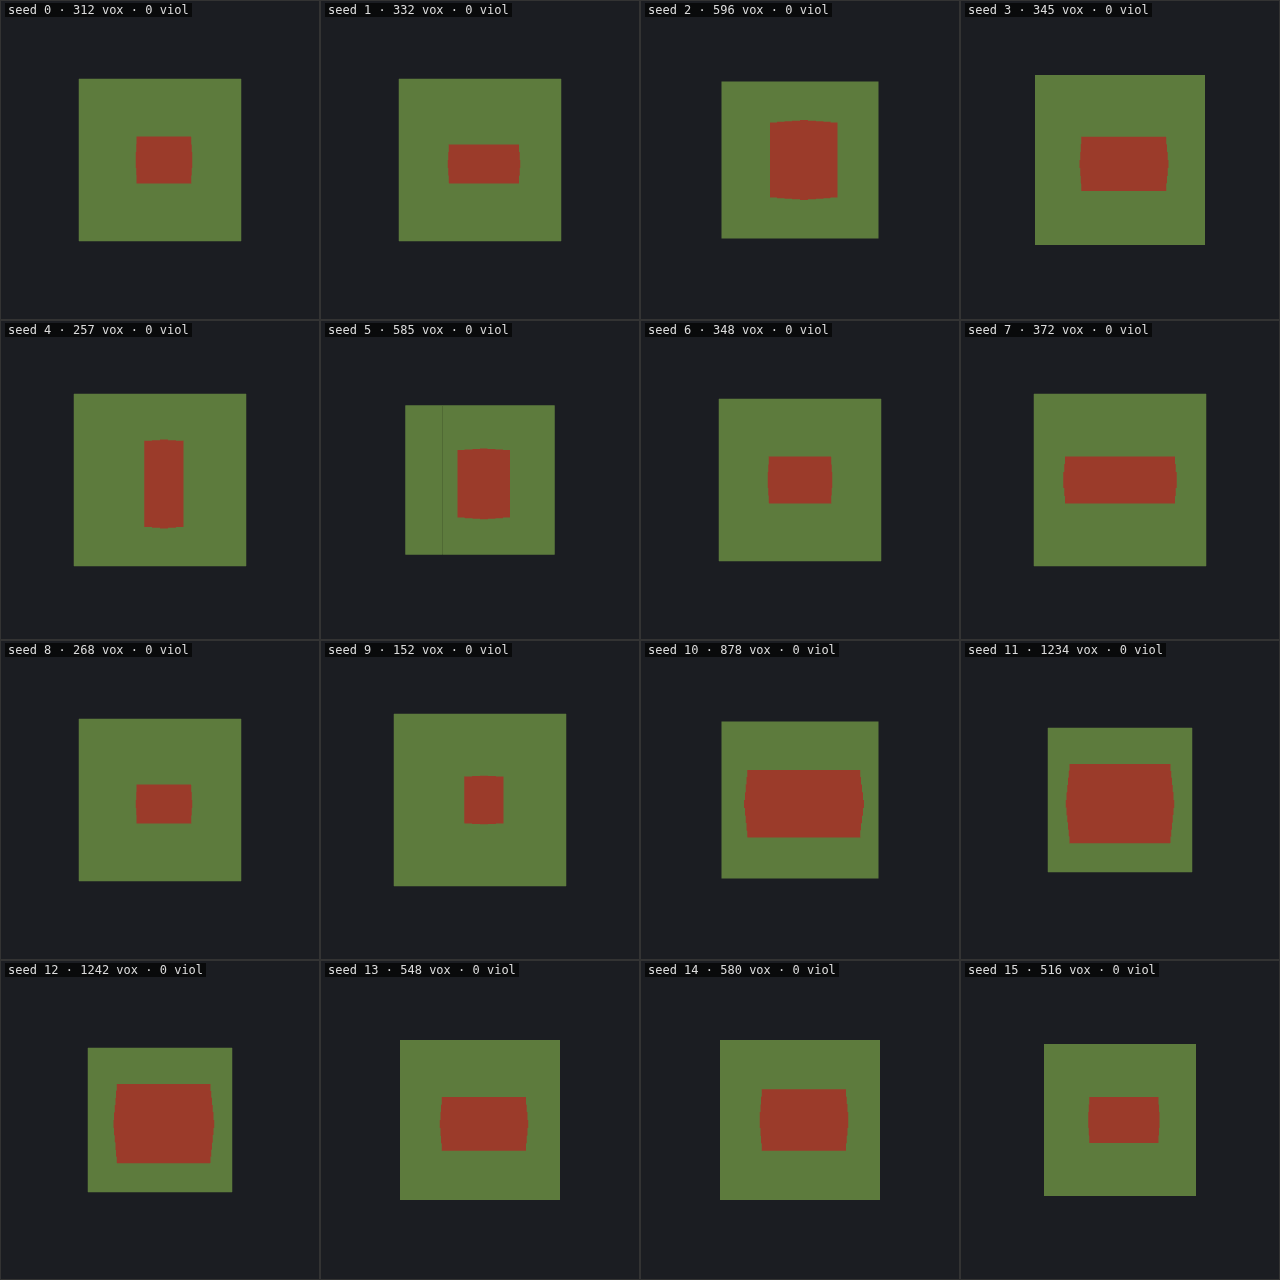
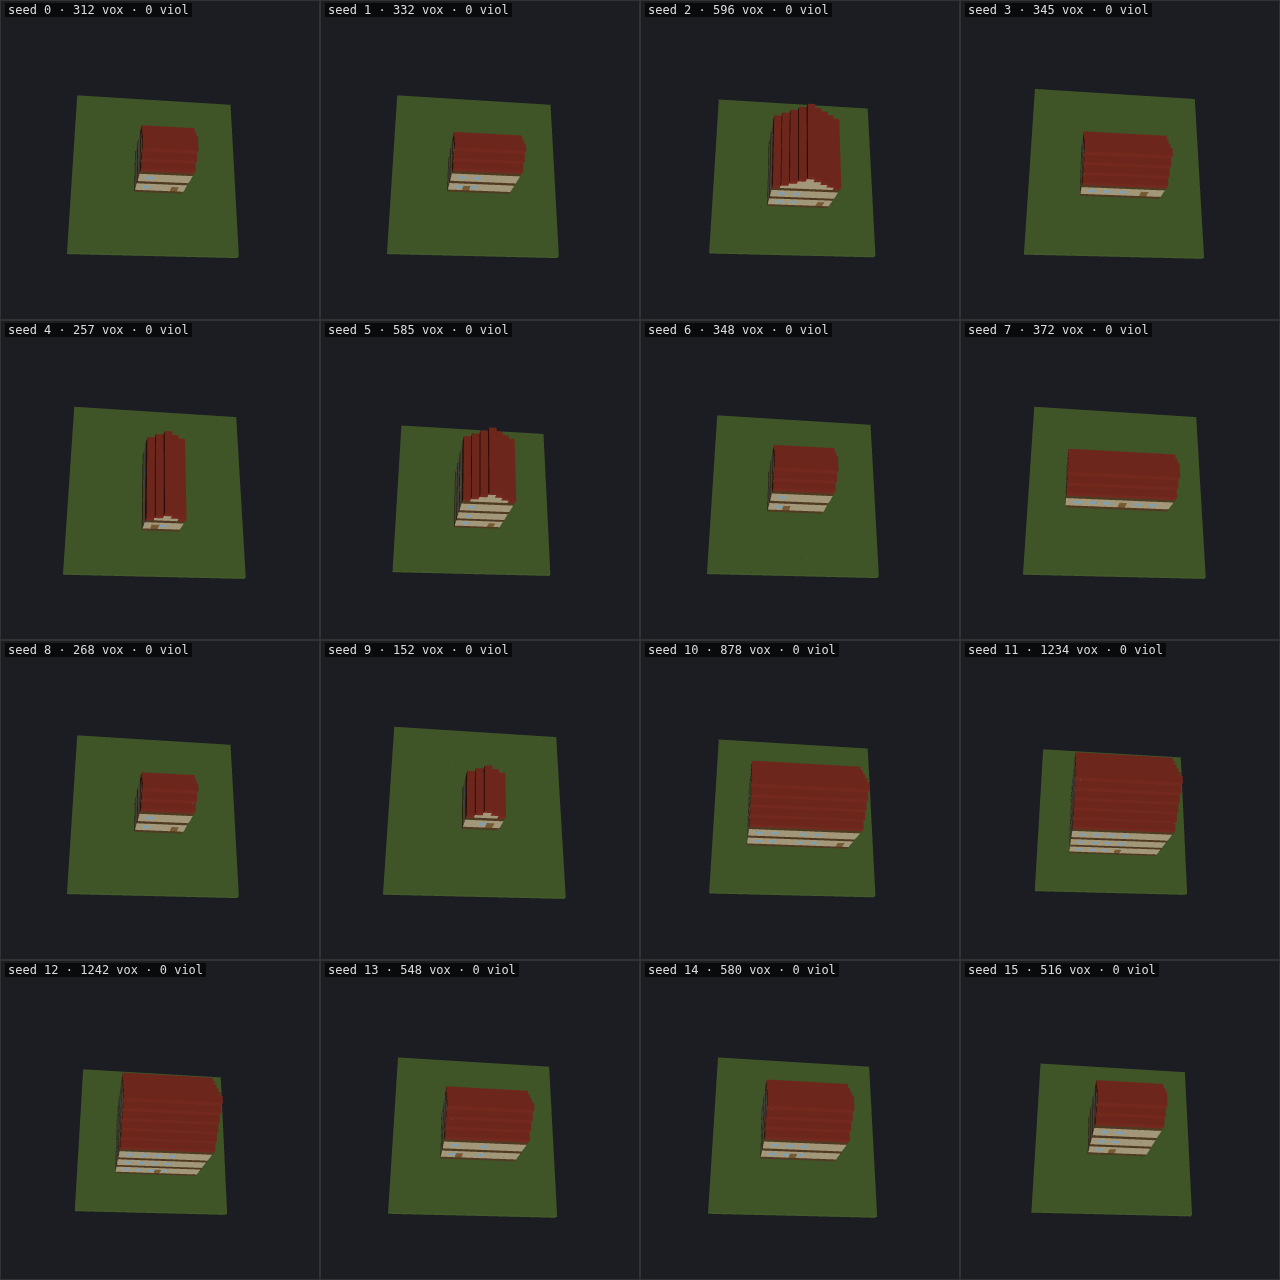
TV: tilt gallery top preset 22 deg and shade it so roofs read
- viewer/presets.ts: top preset tipped 22 deg off vertical towards front/viewer-left, same distance, front edge at picture bottom
- viewer/gallery.ts: top cells use a fixed low sun from front-right, hemisphere 0.5; other presets unchanged
- presets.test.ts asserts exact pitch, tilt direction and up vector
- 4 top PNGs regenerated (others byte-identical); front wall, windows, door, gable ends now visible, nothing cut off

Known issues: roof slopes still one colour (stair voxels share an up-face; needs per-face normals in render.ts)
Review: none
Verified: viewer npm test -> 40 pass; npm run build ok. Follow-up rounds: 0.
Squashed from claude/p3-top-view (4e5fb28..e565930).

diff --git a/viewer/src/presets.ts b/viewer/src/presets.ts
@@ -7,6 +7,9 @@ export type PresetName = (typeof PRESET_NAMES)[number];
 /** Fixed for every cell, so the same seed always frames the same. */
 export const FOV_DEG = 35;
 const DISTANCE_FACTOR = 1.15;
+/** The top preset's angle off vertical, so roof slopes and gable ends read instead of a flat rectangle. */
+export const TOP_PITCH_DEG = 22;
+const TOP_PITCH = (TOP_PITCH_DEG * Math.PI) / 180;
 
 /** Horizontal unit vector pointing out of the front of a lot (north is -z, east is +x, as in the IR). */
 export function frontVector(front: Facing): [number, number] {
@@ -22,8 +25,8 @@ export interface CameraPose { position: THREE.Vector3; target: THREE.Vector3; up
 
 /**
  * Camera pose for a preset, relative to the world bounds [min, max) of a building and the facing of its lot.
- * front-left: 3/4 view from the front-left corner, 30 degrees down; back-right: the opposite corner; top: straight
- * down with the front at the bottom of the picture; front: level elevation from the front.
+ * front-left: 3/4 view from the front-left corner, 30 degrees down; back-right: the opposite corner; top: 22 degrees off
+ * straight down (tipped towards the front, slightly to the left) with the front at the bottom of the picture; front: level elevation from the front.
  */
 export function presetPose(
   name: PresetName, bounds: { min: number[]; max: number[] }, front: Facing,
@@ -44,7 +47,11 @@ export function presetPose(
     case 'front-left': dir.copy(flat(1, 1)).multiplyScalar(Math.cos(tilt)).setY(Math.sin(tilt)); break;
     case 'back-right': dir.copy(flat(-1, -1)).multiplyScalar(Math.cos(tilt)).setY(Math.sin(tilt)); break;
     case 'front': dir.copy(flat(1, 0)); break;
-    case 'top': dir.set(0, 1, 0); up.set(-fx, 0, -fz); break; // front edge at the bottom of the picture
+    case 'top': { // front edge at the bottom of the picture, tipped off vertical towards the front and a little to the left
+      dir.copy(flat(1, 0.35)).multiplyScalar(Math.sin(TOP_PITCH)).setY(Math.cos(TOP_PITCH));
+      up.set(-fx, 0, -fz);
+      break;
+    }
   }
   return { position: target.clone().add(dir.multiplyScalar(dist)), target, up };
 }

diff --git a/viewer/src/gallery.ts b/viewer/src/gallery.ts
@@ -1,6 +1,6 @@
 import * as THREE from 'three';
 import { buildSceneObject } from './render';
-import { FOV_DEG, PRESET_NAMES, presetPose } from './presets';
+import { FOV_DEG, PRESET_NAMES, frontVector, presetPose } from './presets';
 import type { PresetName } from './presets';
 import { resolveSource } from './source';
 import { sceneBounds, sceneVoxels } from './voxels';
@@ -40,7 +40,8 @@ async function main(): Promise<void> {
   if (seeds.length === 0) throw new Error(`no seeds >= ${from}`);
 
   const scene = new THREE.Scene();
-  scene.add(new THREE.HemisphereLight(0xffffff, 0x444455, 1.2));
+  const hemi = new THREE.HemisphereLight(0xffffff, 0x444455, 1.2);
+  scene.add(hemi);
   const sun = new THREE.DirectionalLight(0xffffff, 2);
   sun.position.set(5, 10, 7);
   scene.add(sun, sun.target);
@@ -60,7 +61,15 @@ async function main(): Promise<void> {
     camera.lookAt(pose.target);
     camera.updateProjectionMatrix();
     // Headlight-ish: the sun follows the camera (a bit above it) so every preset and facing is lit alike.
-    sun.position.copy(pose.position).add(new THREE.Vector3(0, pose.position.distanceTo(pose.target) * 0.6, 0));
+    const dist = pose.position.distanceTo(pose.target);
+    sun.position.copy(pose.position).add(new THREE.Vector3(0, dist * 0.6, 0));
+    if (preset === 'top') {
+      // From above a headlight makes every upward face identical. Use a fixed low sun from the front-right
+      // (relative to the lot's front) so roof slopes, ridges and gable ends take different shades.
+      const [fx, fz] = frontVector(data.lots[0]?.front ?? 'south');
+      sun.position.copy(pose.target).add(new THREE.Vector3(0.8 * fx + 0.6 * fz, 0.55, 0.8 * fz - 0.6 * fx).multiplyScalar(dist));
+      hemi.intensity = 0.5;
+    } else hemi.intensity = 1.2;
     sun.target.position.copy(pose.target);
     sun.target.updateMatrixWorld();
     const col = i % COLS, row = Math.floor(i / COLS);

diff --git a/viewer/src/presets.test.ts b/viewer/src/presets.test.ts
@@ -1,5 +1,5 @@
 import { describe, expect, it } from 'vitest';
-import { PRESET_NAMES, presetPose } from './presets';
+import { PRESET_NAMES, TOP_PITCH_DEG, presetPose } from './presets';
 
 const b = { min: [10, 60, 20], max: [30, 70, 40] };
 
@@ -22,9 +22,13 @@ describe('camera presets', () => {
     const bl = presetPose('front-left', b, 'north'), br = presetPose('back-right', b, 'north');
     expect(bl.position.x + br.position.x).toBeCloseTo(2 * bl.target.x, 6);
   });
-  it('top looks straight down', () => {
-    const p = presetPose('top', b, 'west');
-    expect(p.position.x).toBeCloseTo(p.target.x); expect(p.position.z).toBeCloseTo(p.target.z);
-    expect(p.position.y).toBeGreaterThan(p.target.y);
+  it('top looks down at a slight angle off vertical, tipped towards the front and the viewer-left', () => {
+    const p = presetPose('top', b, 'south');
+    const d = p.position.clone().sub(p.target);
+    expect(d.y).toBeGreaterThan(0);
+    expect(Math.acos(d.y / d.length()) * 180 / Math.PI).toBeCloseTo(TOP_PITCH_DEG, 6);
+    expect(p.position.z).toBeGreaterThan(p.target.z); // front (south) side
+    expect(p.position.x).toBeLessThan(p.target.x); // viewer-left
+    expect(p.up.x + 0).toBeCloseTo(0); expect(p.up.z).toBeCloseTo(-1); // front edge stays at the bottom of the picture
   });
 });

diff --git a/docs/log/2026-10-18-p3-top-view.md b/docs/log/2026-10-18-p3-top-view.md
@@ -1,0 +1,10 @@
+# 3.8 gate follow-up: tilted top view
+
+John (REVIEW 3.12, answers 2 and 4): top view too dead on, flat shaded.
+
+- `viewer/src/presets.ts`: `top` pitch is `TOP_PITCH_DEG = 22` off vertical, towards the front and 0.35 of the way to the viewer-left; `up` still puts the front edge at the picture bottom; same distance, so whole building stays in frame (checked on all 16 cells x 4 galleries' top views).
+- `viewer/src/gallery.ts`: for `top` only, the sun is fixed at 0.55 elevation from the front-right of the lot's front (not the camera) and the hemisphere light drops to 0.5; other presets keep the headlight.
+- `presets.test.ts`: top test now asserts pitch, front/left tilt and up vector.
+- Gallery regenerated (`npm run gallery`, 16 PNGs) and copied to `docs/review/phase3/gallery/`.
+
+Before: a red (or grey) flat rectangle on green. After: front wall with windows/door visible below the roof, roof ridge stripes and stepped gable ends visible on long/tall houses (seeds 2, 4, 5, 9). Limitation: roof slope faces are stair cubes with the same up-face, so slopes are not tinted differently; shading helps mainly on side faces. Front-left preset looked unchanged.

diff --git a/docs/ROADMAP.md b/docs/ROADMAP.md
@@ -310,6 +310,7 @@ Critical path: S3 → S5 → V4 → S9.
 - [x] **3.8 Seed gallery** (V4): a 4×4 grid of seeds from fixed camera presets;
   Playwright captures it as PNGs, so agents review the same pictures John does.
   `cd viewer && nix develop -c npm run gallery` (CLI batch to `viewer/gallery-data/gen/`, build, Playwright; PNGs in `viewer/out/gallery/`). *Known issues:* top preset is flat-shaded (roof ridges not readable from above); styles differ only by palette at generator v0.
+  *Gate follow-up* (John 3.12 answers 2 and 4): `top` preset now 22 degrees off vertical (tipped to the front, a little to the left) and lit by a fixed low sun from the front-right instead of the camera headlight, so the front wall and gable ends read; other presets unchanged. Roof slopes are still one colour (stair voxels share an up-face), only the stripes show. Gallery PNGs in `docs/review/phase3/gallery/` regenerated.
 
 **Tests**
 
